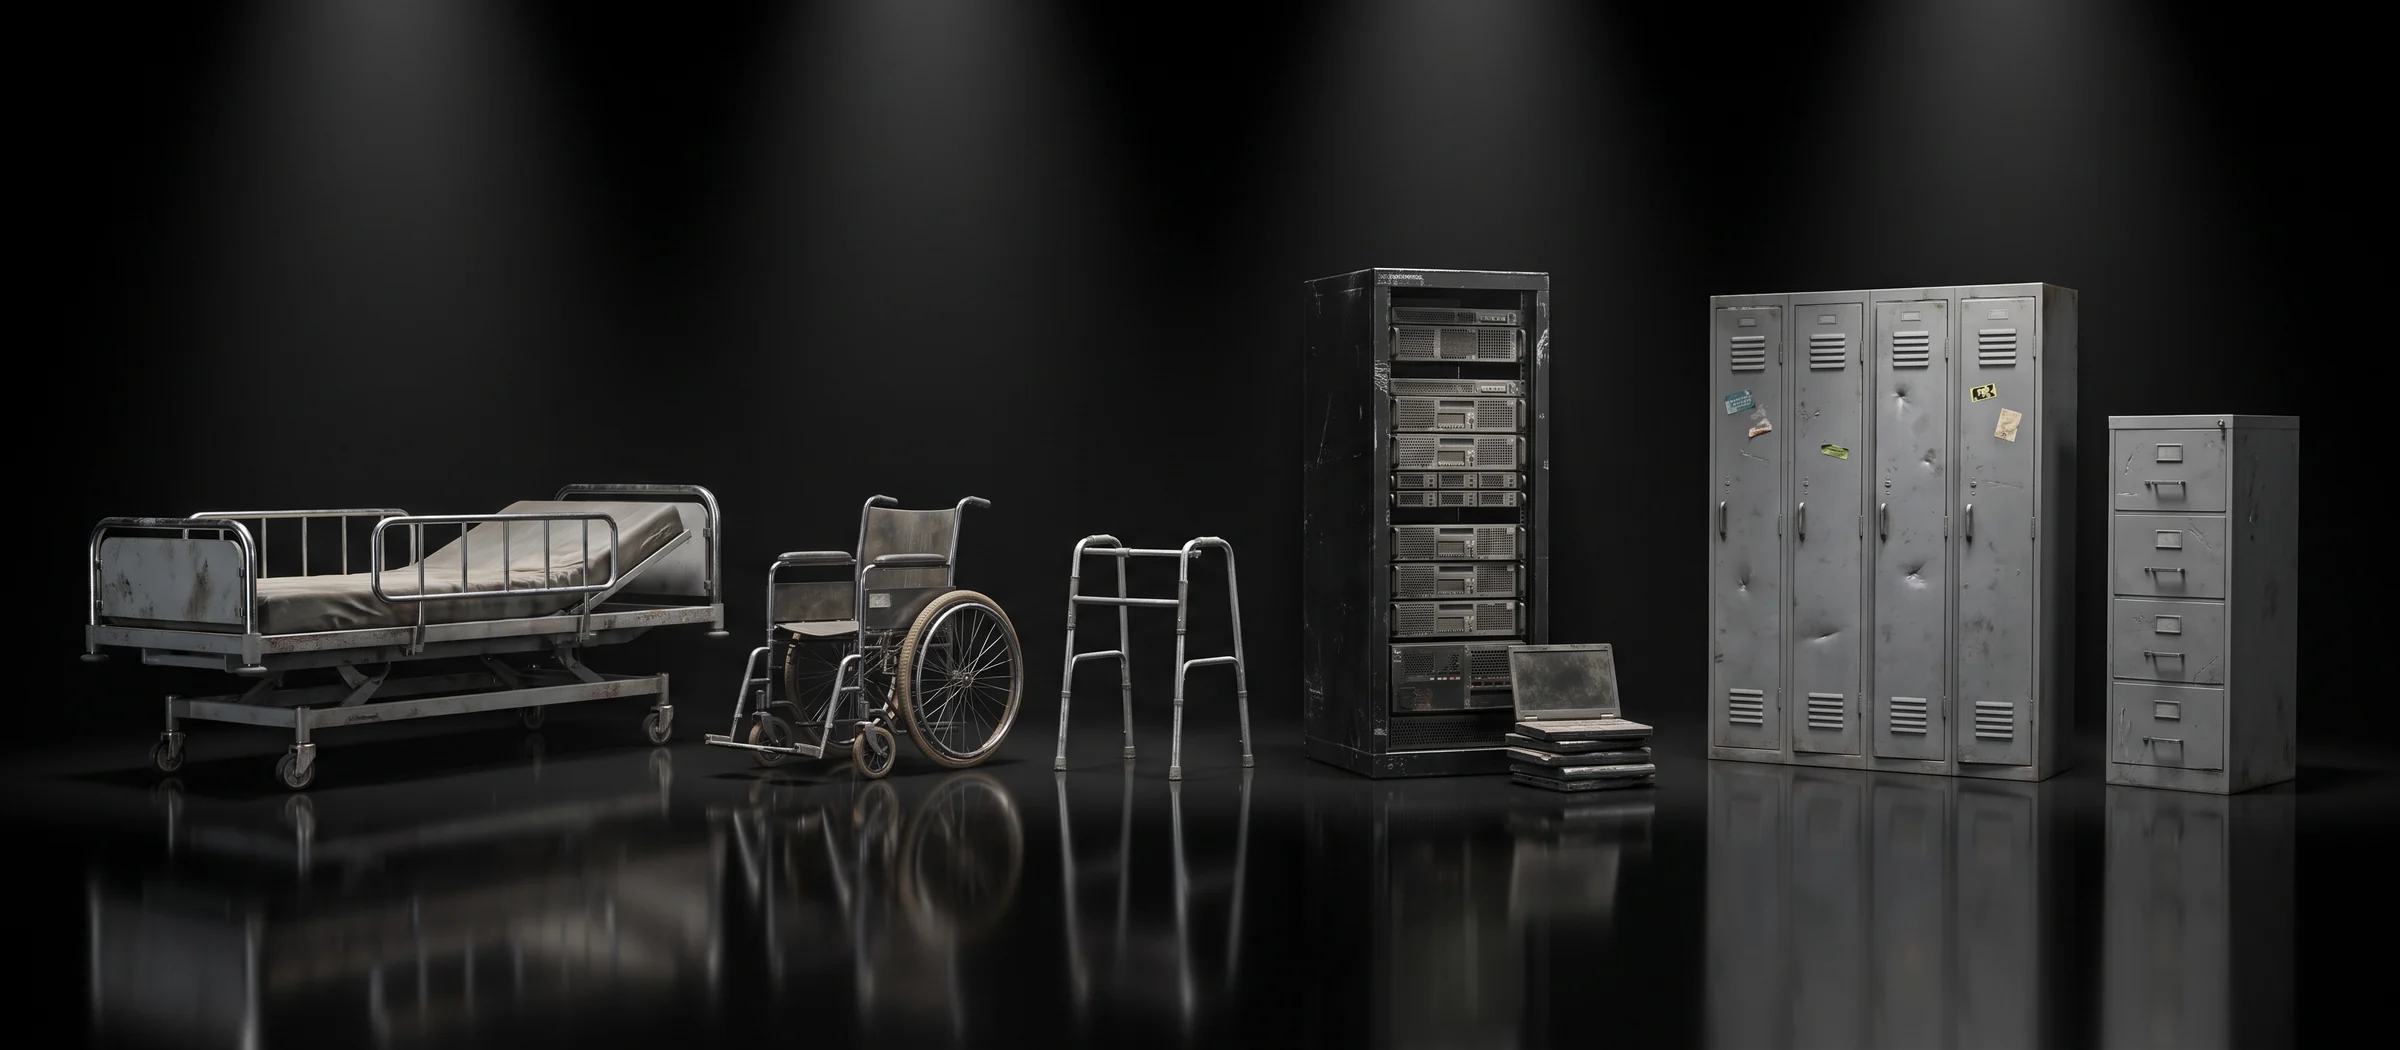
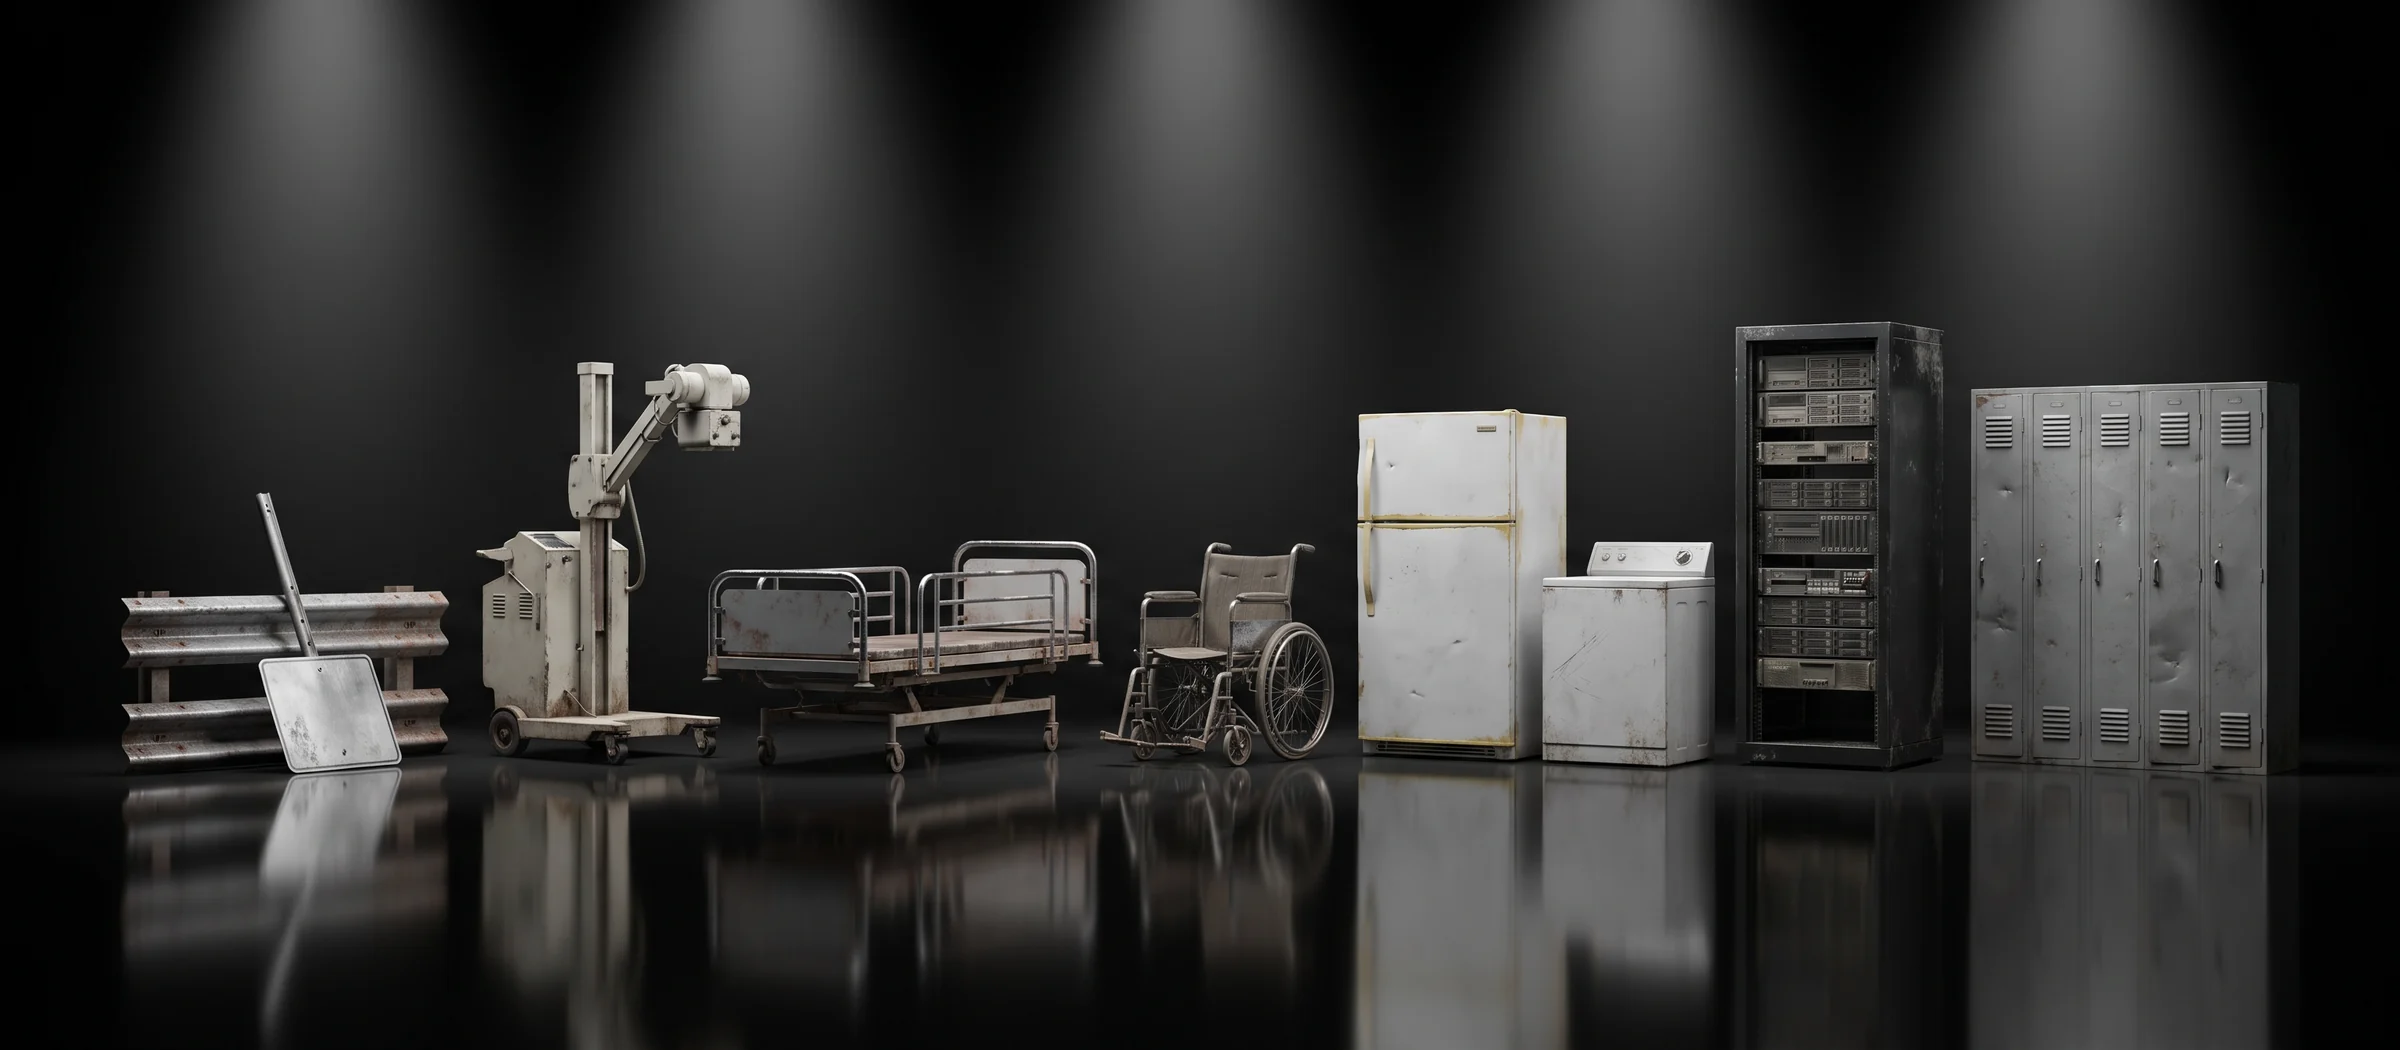
New hero lineup with X-ray, roads and whitegoods; X-ray images
Claude-Session: https://claude.ai/code/session_01K6nanTjG6f1eUywKuEvb7R

diff --git a/index.html b/index.html
@@ -65,12 +65,14 @@
     </div>
   </div>
   <div class="stage-reel">
-    <img src="assets/img/equip-lineup.webp" alt="Equipment we collect: a hospital bed, a wheelchair, a walking frame, a server rack with old laptops, a bank of steel lockers and a filing cabinet" fetchpriority="high">
+    <img src="assets/img/equip-lineup.webp" alt="Equipment we collect: road guardrail and a sign, a mobile X-ray machine, a hospital bed, a wheelchair, a fridge and washing machine, a server rack and a bank of steel lockers" fetchpriority="high">
     <ol class="stage-labels" aria-hidden="true">
-      <li style="left:17%"><a href="hospitals.html">Health</a></li>
-      <li style="left:42%"><a href="retirement-villages.html">Aged care</a></li>
-      <li style="left:59.5%"><a href="sectors.html#data-rooms">IT&nbsp;&amp;&nbsp;data</a></li>
-      <li style="left:85%"><a href="sectors.html#business">Offices&nbsp;&amp;&nbsp;education</a></li>
+      <li style="left:12%"><a href="sectors.html#councils">Councils&nbsp;&amp;&nbsp;roads</a></li>
+      <li style="left:30.5%"><a href="hospitals.html#medical">Health&nbsp;&amp;&nbsp;X-ray</a></li>
+      <li style="left:51%"><a href="retirement-villages.html">Aged care</a></li>
+      <li style="left:64%"><a href="what-we-collect.html#whitegoods">Whitegoods</a></li>
+      <li style="left:76.7%"><a href="sectors.html#data-rooms">IT&nbsp;&amp;&nbsp;data</a></li>
+      <li style="left:89%"><a href="universities.html">Education</a></li>
     </ol>
   </div>
   <div class="wrap">
@@ -100,8 +102,8 @@
     </div>
     <div class="grid grid-3">
       <a class="card-link reveal" href="hospitals.html">
-        <div class="card-img"><img src="assets/img/r-bed.webp" alt="A hospital bed frame, rendered" loading="lazy"></div>
-        <div class="card-body"><h3>Health&nbsp;&amp; <bdi class="nw">aged care</bdi></h3><p>Hospitals, clinics and retirement villages: X-ray and imaging units, beds, hoists, wheelchairs, trolleys and stainless, once medical equipment <bdi class="nw">is cleared.</bdi></p></div>
+        <div class="card-img"><img src="assets/img/r-xray.webp" alt="A mobile X-ray machine and a C-arm imaging unit" loading="lazy"></div>
+        <div class="card-body"><h3>Health, X-ray&nbsp;&amp; <bdi class="nw">aged care</bdi></h3><p>Hospitals, clinics and retirement villages: X-ray and imaging units, beds, hoists, wheelchairs, trolleys and stainless, once medical equipment <bdi class="nw">is cleared.</bdi></p></div>
       </a>
       <a class="card-link reveal" href="universities.html">
         <div class="card-img"><img src="assets/img/r-lockers.webp" alt="A bank of steel lockers and a filing cabinet, rendered" loading="lazy"></div>

diff --git a/hospitals.html b/hospitals.html
@@ -93,6 +93,7 @@
           <li><strong>Fluids, gases <bdi class="nw">and batteries</bdi></strong> drained, recovered <bdi class="nw">or removed.</bdi></li>
           <li><strong>Asset-register disposal</strong> approved on <bdi class="nw">your side.</bdi></li>
         </ul>
+        <img src="assets/img/r-xray-wide.webp" alt="A retired mobile X-ray machine and a C-arm imaging unit" loading="lazy" style="display:block;width:100%;height:auto;margin:28px 0 0">
       </div>
       <div class="reveal">
         <h3>X-ray and <bdi class="nw">imaging units</bdi></h3>
